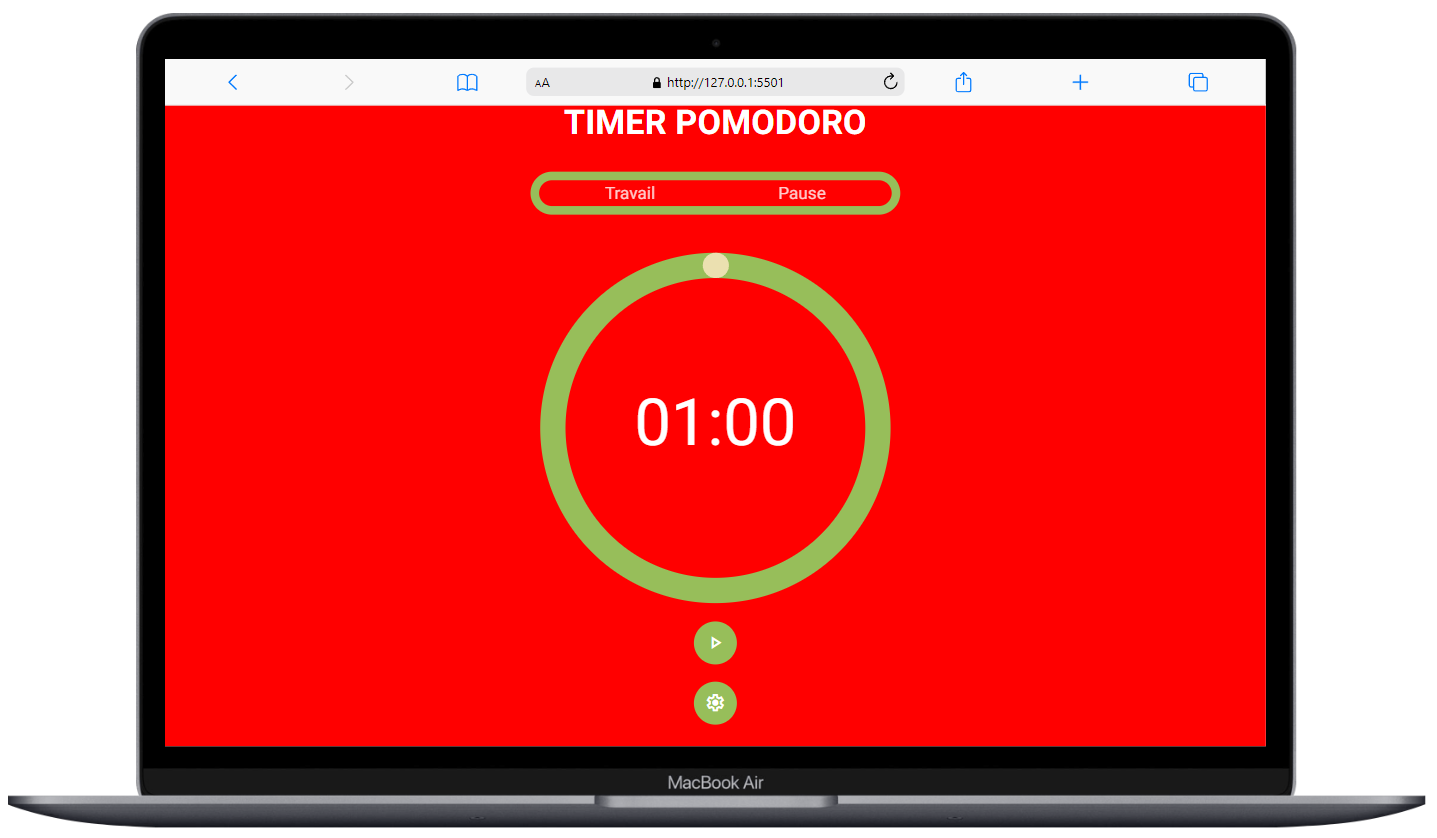
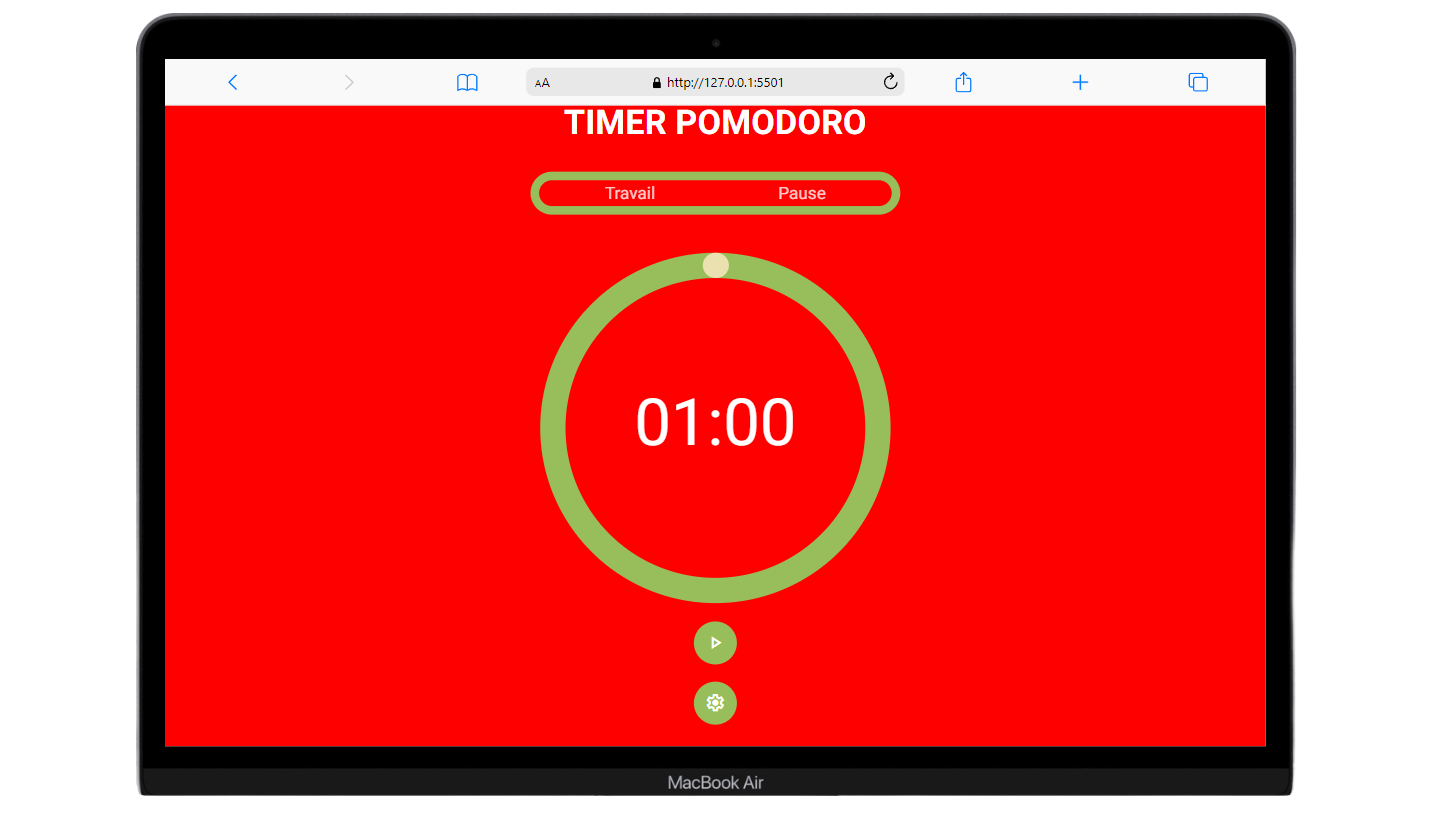
update readme to french and screenshot transparent

Changed region(s): [[0.0, 0.9308, 1.0, 0.9928], [0.888, 0.6205, 0.9186, 0.8687]]

diff --git a/README.md b/README.md
@@ -1,56 +1,50 @@
 # Pomodoro Timer
 
-This is a simple and responsive Pomodoro Timer built with HTML, CSS, and JavaScript. The project allows users to set custom work and rest durations, start a countdown timer, and visualize their progress using an animated circular timer.
+Ceci est un **Pomodoro Timer** simple et responsive construit avec **HTML, CSS** et **JavaScript**. Ce projet permet aux utilisateurs de définir des durées personnalisées pour les périodes de travail et de repos, de lancer un compte à rebours, et de visualiser leur progression grâce à un timer circulaire animé.
 
-### https://lukathim.github.io/projet_pomodoro_maquette/
+### [Lien vers le projet](https://lukathim.github.io/projet_pomodoro_maquette/)
 
-## Features
-- **Customizable Durations**: Set your own work and rest durations via the settings panel.
-- **Responsive Design**: The layout adjusts seamlessly across different screen sizes, from mobile to desktop.
-- **Visual Progress**: The circular progress indicator dynamically updates as time counts down.
-- **Persistent Settings**: The timer stores the user's work and rest durations using local storage so settings persist across sessions.
+## Fonctionnalités
+- **Durées personnalisables** : Configurez vos propres durées de travail et de repos via le panneau de paramètres.
+- **Design responsive** : Le layout s’adapte parfaitement à différentes tailles d’écran, du mobile au bureau.
+- **Progression visuelle** : L’indicateur de progression circulaire se met à jour dynamiquement au fur et à mesure que le temps s'écoule.
+- **Paramètres persistants** : Le timer enregistre les durées de travail et de repos de l'utilisateur dans le stockage local, ce qui permet aux paramètres de persister entre les sessions.
 
-## Files
+## Fichiers
 
 ### 1. `index.html`
-This is the main HTML file that defines the structure of the Pomodoro Timer. It includes:
-- The header displaying the title of the timer.
-- The panel to display "Work" and "Rest" status.
-- The SVG-based circular timer.
-- Buttons for starting the timer, resetting, and opening the settings form.
+Il s'agit du fichier HTML principal qui définit la structure du Pomodoro Timer. Il inclut :
+- L'en-tête affichant le titre du timer.
+- Le panneau pour afficher l'état "Travail" et "Repos".
+- Le timer circulaire basé sur SVG.
+- Des boutons pour démarrer le timer, réinitialiser, et ouvrir le formulaire de paramètres.
 
 ### 2. `style.css`
-This file contains all the styles for the Pomodoro Timer. It includes:
-- Global reset and layout styles.
-- Specific styles for the timer panel, buttons, and settings form.
-- Responsive styles to ensure the layout works well across various devices and screen sizes.
+Ce fichier contient tous les styles pour le Pomodoro Timer. Il inclut :
+- Styles de réinitialisation et de mise en page globaux.
+- Styles spécifiques pour le panneau du timer, les boutons et le formulaire de paramètres.
+- Styles responsives pour garantir que la mise en page fonctionne bien sur divers appareils et tailles d'écran.
   
-**Key Features**:
-- Circular SVG progress animation is handled through CSS for stroke offset changes.
-- Includes media queries to ensure proper scaling on smaller screens (768px and 480px).
+**Fonctionnalités clés** :
+- L'animation de progression circulaire SVG est gérée via CSS pour les changements d'offset du stroke.
+- Inclut des media queries pour assurer un bon redimensionnement sur les petits écrans (768px et 480px).
 
 ### 3. `pomodoro.js`
-This JavaScript file handles all the functionality of the Pomodoro Timer. It includes:
-- Timer countdown logic for both work and rest periods.
-- Functions to update the circular progress dynamically.
-- Event listeners for start, reset, and settings buttons.
-- Local storage functionality to save and load the work and rest durations set by the user.
+Ce fichier JavaScript gère toute la fonctionnalité du Pomodoro Timer. Il inclut :
+- Logique de compte à rebours pour les périodes de travail et de repos.
+- Fonctions pour mettre à jour dynamiquement la progression circulaire.
+- Écouteurs d'événements pour les boutons de démarrage, de réinitialisation et de paramètres.
+- Fonctionnalité de stockage local pour sauvegarder et charger les durées de travail et de repos définies par l'utilisateur.
 
-**Main Functions**:
-- `funcUpdateTimer()`: Handles the countdown for the timer.
-- `funcUpdateProgress()`: Updates the circular progress based on the remaining time.
-- Local storage integration to persist user settings.
+**Fonctions principales** :
+- `funcUpdateTimer()`: Gère le compte à rebours du timer.
+- `funcUpdateProgress()`: Met à jour la progression circulaire en fonction du temps restant.
+- Intégration de stockage local pour persister les paramètres utilisateur.
 
-## How to Use
+## Captures d'écran
 
-1. **Clone the repository**:
-   ```bash
-   git clone <repository-url>
+![Vue de bureau du Pomodoro Timer](./img/screenshot-desktop.png)
+*Vue de bureau du Pomodoro Timer*
 
-## Screenshots
-
-![Pomodoro Timer Desktop View](./img/screenshot-desktop.png)
-*Desktop view of the Pomodoro Timer*
-
-![Pomodoro Timer Mobile View](./img/screenshot-mobile.png)
-*Mobile view of the Pomodoro Timer*
+![Vue mobile du Pomodoro Timer](./img/screenshot-mobile.png)
+*Vue mobile du Pomodoro Timer*
